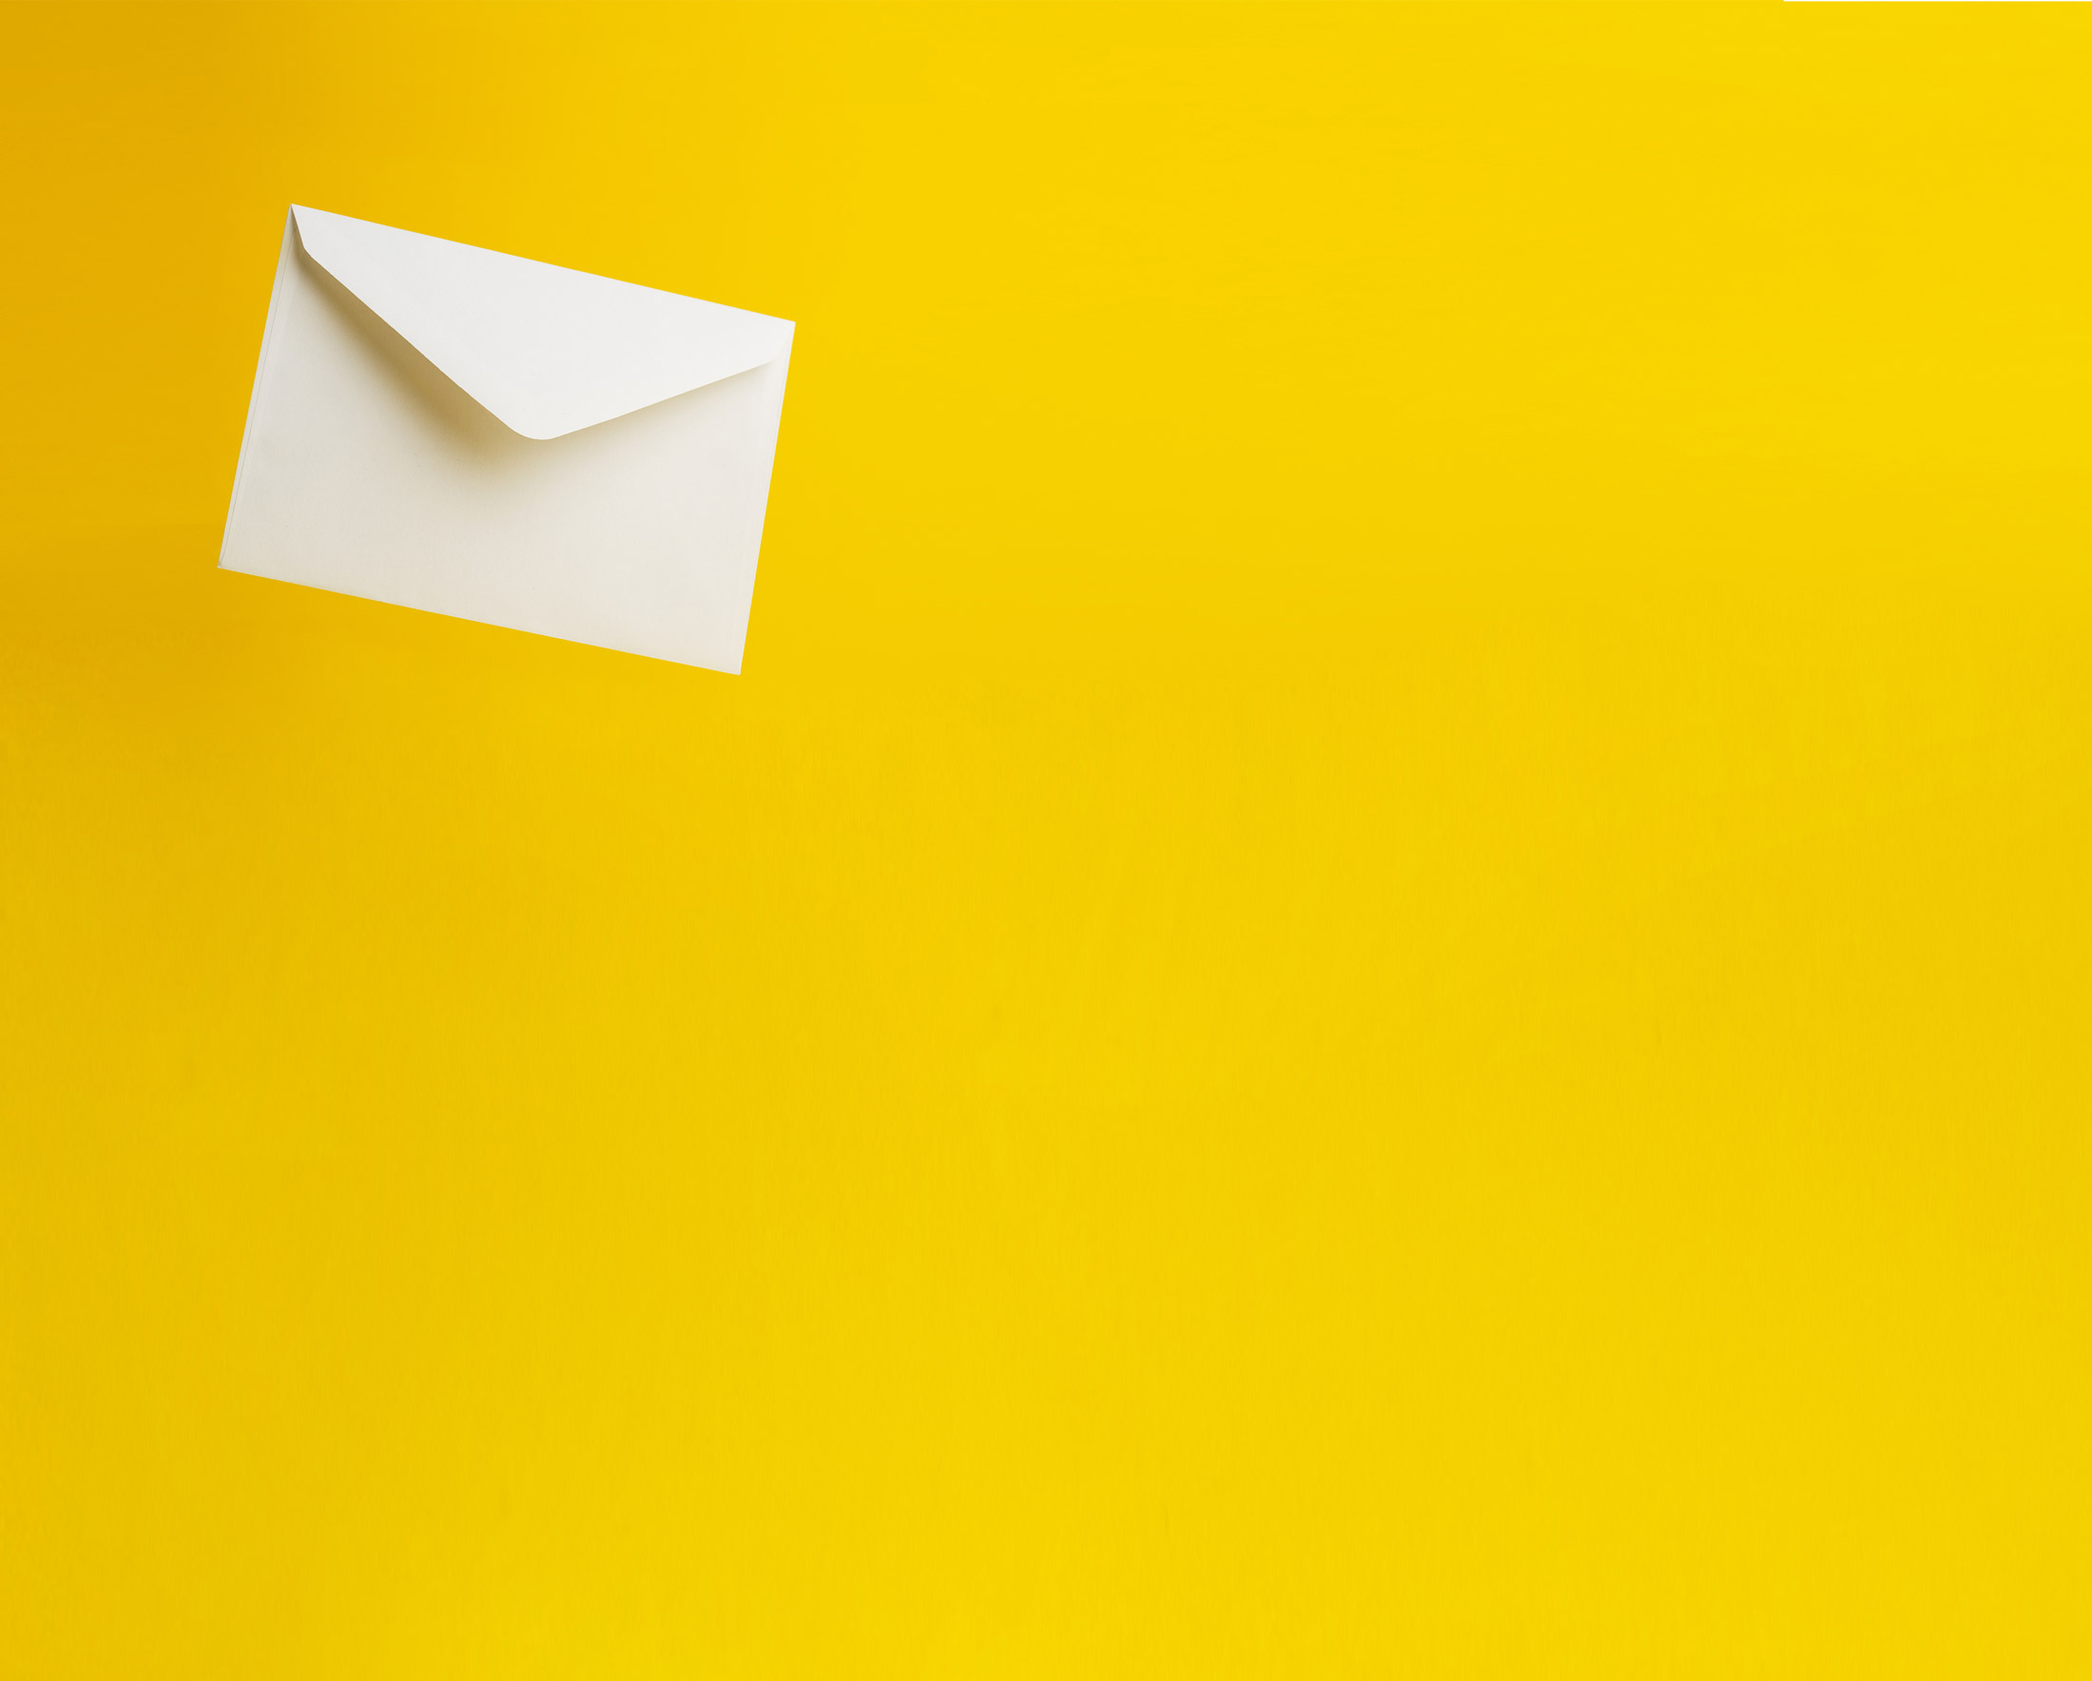
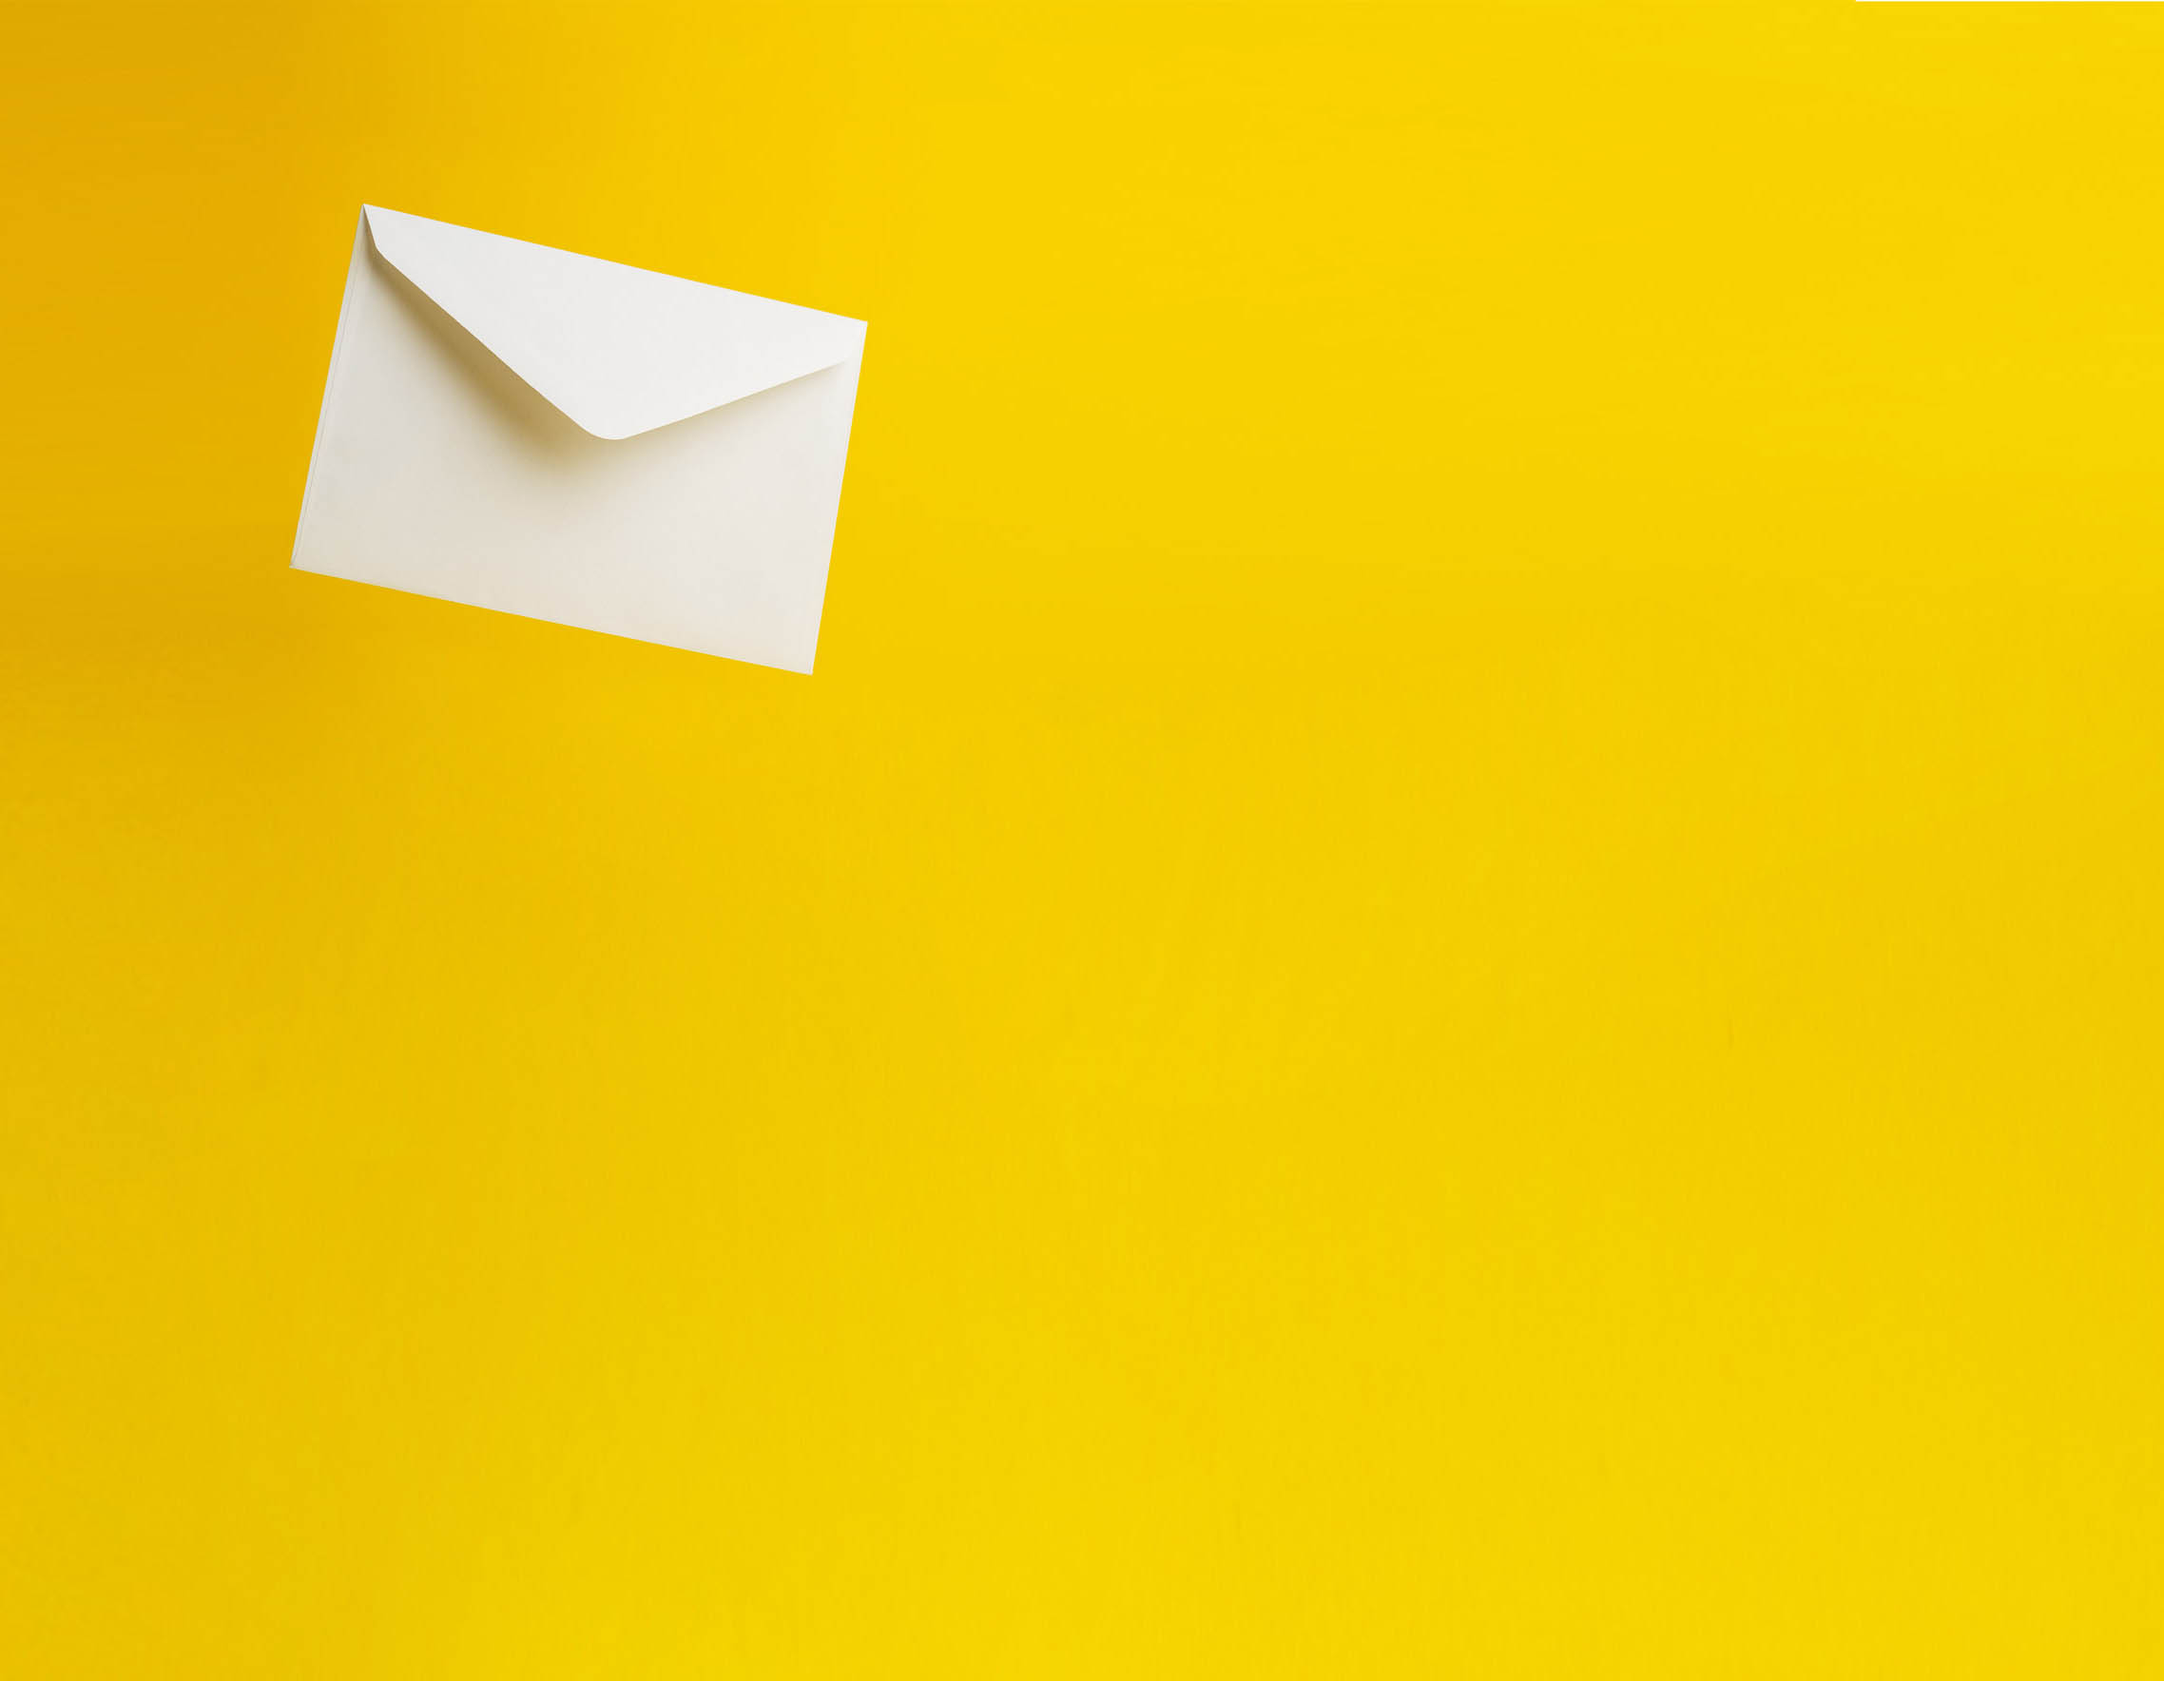
Updating images for mobile

Changed region(s): [[0.0927, 0.1244, 0.4018, 0.4044], [0.2782, 0.1555, 0.3709, 0.1867]]

diff --git a/css/main.css b/css/main.css
@@ -1121,7 +1121,7 @@ label.mobile { display: none; }
 	.signup #hero img { width: 90%; }
 	#signup-form { width: 95%; }
 	#signup-form .form-line label { font-size: 16px; }
-	.signup .content-container { background-position: 46.75% center; }
+	.signup .content-container { background-position: 13% center; }
 	#signup-form form .form-line { flex-direction: column; }
 	#signup-form .form-line input { width: initial; }
 	#signup-form form .form-line.agreement input { width: 17px; }
